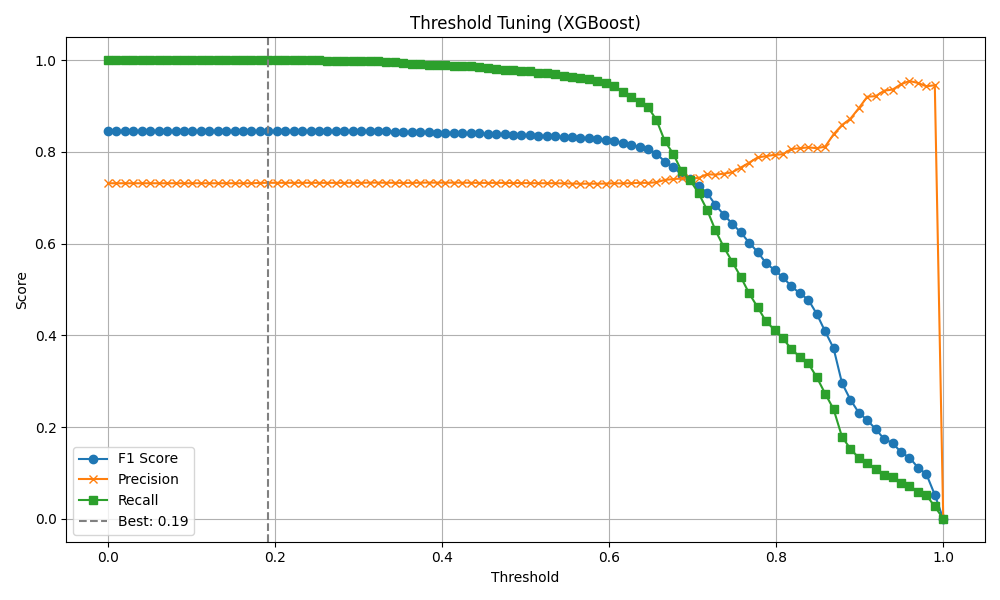
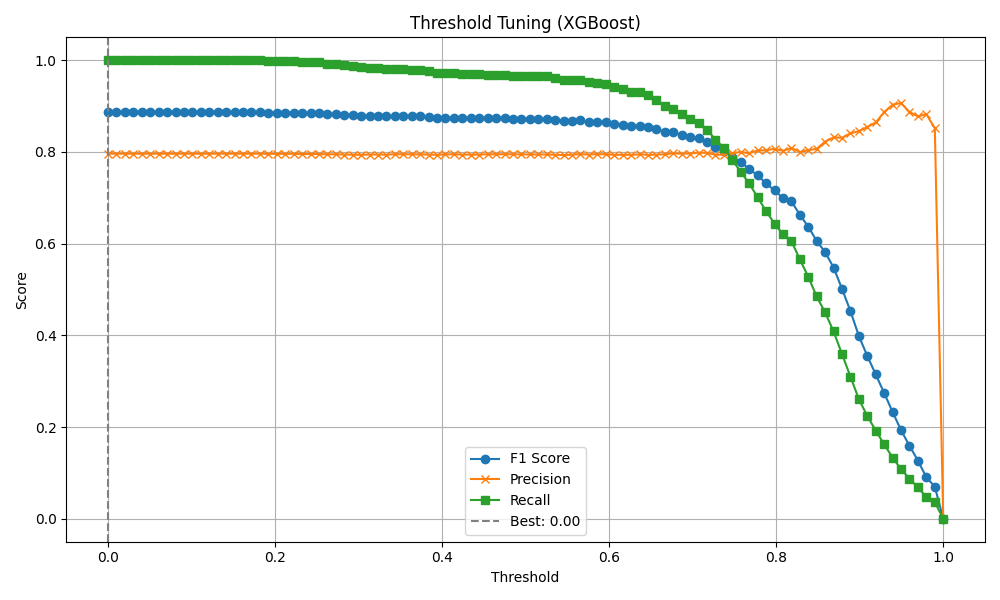
Excellent version

diff --git a/scripts/vortex_prediction_model.py b/scripts/vortex_prediction_model.py
@@ -1,19 +1,18 @@
-# Vortex Prediction Model Trainer with XGBoost 
 import argparse
 import pandas as pd
 import numpy as np
 from pathlib import Path
 from joblib import dump, load
 import matplotlib.pyplot as plt
-from xgboost import XGBClassifier
 from sklearn.ensemble import RandomForestClassifier
+from xgboost import XGBClassifier
 from sklearn.metrics import (
     precision_score, recall_score, f1_score, classification_report, confusion_matrix
 )
 
 from vortexdetect.feature_processor import FeatureProcessor
 
-# === Configuration ===
+# === Config ===
 BASE_DIR = Path(__file__).resolve().parent.parent
 DATA_FILE = BASE_DIR / "data" / "ml_ready_vortex_data.csv"
 FEATURES_FILE = BASE_DIR / "data" / "ml_ready_features.csv"
@@ -22,9 +21,10 @@ RESULTS_DIR = BASE_DIR / "results"
 LOOKAHEAD = 10
 THRESHOLD_STEP = 0.01
 
+
 def prepare_data(df, feature_processor, force_recalculate=False):
     if FEATURES_FILE.exists() and not force_recalculate:
-        print("Loading cached features...")
+        print("Loading precomputed features...")
         return pd.read_csv(FEATURES_FILE)
 
     print("Recomputing features...")
@@ -32,18 +32,20 @@ def prepare_data(df, feature_processor, force_recalculate=False):
 
     for i in range(50, len(df) - LOOKAHEAD):
         window = df.iloc[i - 50:i]
-        label = 1 if df["gt_detection_win"].iloc[i:i + LOOKAHEAD].any() else 0
+        label = 1 if any(df["gt_detection_win"].iloc[i:i + LOOKAHEAD]) else 0
         feats = feature_processor.compute_features(window)
         feats["ml_label"] = label
         features.append(feats)
 
-    df_feat = pd.DataFrame(features)
+    result_df = pd.DataFrame(features)
     FEATURES_FILE.parent.mkdir(parents=True, exist_ok=True)
-    df_feat.to_csv(FEATURES_FILE, index=False)
-    return df_feat
+    result_df.to_csv(FEATURES_FILE, index=False)
+    return result_df
+
 
 def train_model(X_train, y_train, model_type="xgboost"):
     print(f"Training {model_type.upper()} model...")
+
     if model_type == "rf":
         model = RandomForestClassifier(
             n_estimators=100,
@@ -51,97 +53,122 @@ def train_model(X_train, y_train, model_type="xgboost"):
             random_state=42
         )
     else:
+        ratio = np.sum(y_train == 0) / np.sum(y_train == 1)
         model = XGBClassifier(
             n_estimators=100,
             learning_rate=0.1,
             max_depth=5,
+            scale_pos_weight=ratio,
             use_label_encoder=False,
             eval_metric="logloss",
             random_state=42
         )
+
     model.fit(X_train, y_train)
     return model
 
-def find_best_threshold(y_true, y_probs):
-    thresholds = np.arange(0, 1.01, THRESHOLD_STEP)
-    best_f1 = 0
-    best_thresh = 0.5
-    for t in thresholds:
-        y_pred = (y_probs >= t).astype(int)
-        score = f1_score(y_true, y_pred)
-        if score > best_f1:
-            best_f1 = score
-            best_thresh = t
-    return best_thresh, best_f1
 
 def evaluate(model, X_test, y_test, save_dir, model_type):
     y_probs = model.predict_proba(X_test)[:, 1]
-    best_thresh, best_f1 = find_best_threshold(y_test, y_probs)
-    y_pred = (y_probs >= best_thresh).astype(int)
+    thresholds = np.arange(0.01, 0.51, 0.01)
+    metrics_by_threshold = []
 
-    precision = precision_score(y_test, y_pred)
-    recall = recall_score(y_test, y_pred)
-    f1 = f1_score(y_test, y_pred)
+    for t in thresholds:
+        y_pred = (y_probs >= t).astype(int)
+        metrics_by_threshold.append([
+            t,
+            precision_score(y_test, y_pred, zero_division=0),
+            recall_score(y_test, y_pred, zero_division=0),
+            f1_score(y_test, y_pred, zero_division=0)
+        ])
+
+    result_path = save_dir / f"{model_type}"
+    result_path.mkdir(parents=True, exist_ok=True)
+
+    df_metrics = pd.DataFrame(metrics_by_threshold, columns=["Threshold", "Precision", "Recall", "F1"])
+    df_metrics.to_csv(result_path / "threshold_metrics.csv", index=False)
+
+    best_row = df_metrics.sort_values("F1", ascending=False).iloc[0]
+    best_thresh = best_row["Threshold"]
+    print(f"\nBest threshold based on F1: {best_thresh:.2f}")
+
+    # Final evaluation at best threshold
+    y_pred = (y_probs >= best_thresh).astype(int)
 
     print("\nClassification Report:")
     print(classification_report(y_test, y_pred))
     print("Confusion Matrix:\n", confusion_matrix(y_test, y_pred))
 
-    model_dir = save_dir / model_type
-    model_dir.mkdir(parents=True, exist_ok=True)
-
     pd.DataFrame([{
-        "precision": precision,
-        "recall": recall,
-        "f1": f1,
+        "precision": best_row["Precision"],
+        "recall": best_row["Recall"],
+        "f1": best_row["F1"],
         "threshold": best_thresh
-    }]).to_csv(model_dir / "metrics.csv", index=False)
+    }]).to_csv(result_path / "model_metrics.csv", index=False)
 
-    with open(model_dir / "report.txt", "w") as f:
+    with open(result_path / "classification_report.txt", "w") as f:
         f.write(classification_report(y_test, y_pred))
 
+    # Plot threshold tuning
+    plt.figure(figsize=(10, 6))
+    plt.plot(df_metrics["Threshold"], df_metrics["F1"], label="F1 Score", marker='o')
+    plt.plot(df_metrics["Threshold"], df_metrics["Precision"], label="Precision", linestyle='--')
+    plt.plot(df_metrics["Threshold"], df_metrics["Recall"], label="Recall", linestyle='--')
+    plt.xlabel("Threshold")
+    plt.ylabel("Score")
+    plt.title(f"Threshold Tuning - {model_type.upper()}")
+    plt.legend()
+    plt.grid(True)
+    plt.tight_layout()
+    plt.savefig(result_path / "threshold_tuning.png")
+    plt.close()
+
     return {
-        "precision": precision,
-        "recall": recall,
-        "f1": f1,
+        "precision": best_row["Precision"],
+        "recall": best_row["Recall"],
+        "f1": best_row["F1"],
         "threshold": best_thresh
     }
 
+
 def main(args):
     model_type = args.model.lower()
-    print("Loading raw dataset...")
+    print("Loading raw time-series data...")
     df = pd.read_csv(DATA_FILE)
     processor = FeatureProcessor()
 
-    print("Generating features and labels...")
-    df_features = prepare_data(df, processor, force_recalculate=args.force_recalculate).dropna()
-    X = df_features.drop(columns=["ml_label"])
-    y = df_features["ml_label"]
+    print("Preparing features and labels...")
+    data = prepare_data(df, processor, force_recalculate=args.force_recalculate)
+    data = data.dropna()
+    X = data.drop(columns=["ml_label"])
+    y = data["ml_label"]
 
     split = int(len(X) * args.data_fraction)
     X_train, X_test = X.iloc[:split], X.iloc[split:]
     y_train, y_test = y.iloc[:split], y.iloc[split:]
 
-    model_path = MODEL_DIR / f"{model_type}_vortex_model.joblib"
-    if model_path.exists() and not args.force_retrain:
-        print("Loading cached model...")
-        model = load(model_path)
-    else:
-        model = train_model(X_train, y_train, model_type)
-        MODEL_DIR.mkdir(parents=True, exist_ok=True)
-        dump(model, model_path)
-        print(f"Model saved to {model_path}")
+    model_file = MODEL_DIR / f"{model_type}_vortex_model.joblib"
 
-    print("Evaluating model performance...")
+    if model_file.exists() and not args.force_retrain:
+        print("Loading existing model...")
+        model = load(model_file)
+    else:
+        model = train_model(X_train, y_train, model_type=model_type)
+        MODEL_DIR.mkdir(parents=True, exist_ok=True)
+        dump(model, model_file)
+        print(f"Model saved to {model_file}")
+
+    print("Evaluating model...")
     evaluate(model, X_test, y_test, RESULTS_DIR, model_type)
 
+
 if __name__ == "__main__":
-    parser = argparse.ArgumentParser(description="Train and Evaluate Vortex Model")
+    parser = argparse.ArgumentParser(description="Vortex Prediction Model Trainer")
     parser.add_argument("--model", type=str, default="xgboost", choices=["xgboost", "rf"],
-                        help="Choose model: 'xgboost' or 'rf'")
-    parser.add_argument("--force-recalculate", action="store_true", help="Recalculate features from raw data")
-    parser.add_argument("--force-retrain", action="store_true", help="Retrain even if model exists")
-    parser.add_argument("--data-fraction", type=float, default=0.8, help="Train/test split fraction")
+                        help="Choose model type: 'xgboost' or 'rf'")
+    parser.add_argument("--force-recalculate", action="store_true", help="Recompute features from raw data")
+    parser.add_argument("--force-retrain", action="store_true", help="Retrain model from scratch")
+    parser.add_argument("--data-fraction", type=float, default=0.8, help="Fraction of data to use for training")
     args = parser.parse_args()
 
     main(args)

diff --git a/app/main_gradio.py b/app/main_gradio.py
@@ -1,0 +1,86 @@
+# main
+import gradio as gr
+import pandas as pd
+import numpy as np
+import matplotlib.pyplot as plt
+from sklearn.ensemble import RandomForestClassifier
+from xgboost import XGBClassifier
+from sklearn.model_selection import train_test_split
+from sklearn.metrics import precision_score, recall_score, f1_score, roc_curve, auc
+from sklearn.preprocessing import StandardScaler
+from pathlib import Path
+
+# === Feature Extraction ===
+def extract_features(df, window_size):
+    df['pressure_diff'] = df['PRESSURE'].diff().shift(1)
+    df = df.dropna()
+    X, y = [], []
+    for i in range(window_size, len(df)):
+        window = df['pressure_diff'].iloc[i - window_size:i].values
+        label = df['gt_detection_win'].iloc[i]
+        features = [
+            np.mean(window),
+            np.std(window),
+            np.sum(window < 0),
+            np.mean(window[-10:]),
+            np.polyfit(range(len(window)), window, 1)[0]  # slope
+        ]
+        X.append(features)
+        y.append(label)
+    return np.array(X), np.array(y), df.iloc[window:].reset_index(drop=True)
+
+# === Training and Evaluation ===
+def run_model(df, model_name, window_size, threshold):
+    X, y, trimmed_df = extract_features(df, window_size)
+    X_train, X_test, y_train, y_test = train_test_split(X, y, test_size=0.2, stratify=y, random_state=42)
+    scaler = StandardScaler()
+    X_train = scaler.fit_transform(X_train)
+    X_test = scaler.transform(X_test)
+
+    model = RandomForestClassifier(n_estimators=100, random_state=42) if model_name == "Random Forest" else \
+            XGBClassifier(n_estimators=100, use_label_encoder=False, eval_metric="logloss", random_state=42)
+
+    model.fit(X_train, y_train)
+    y_prob = model.predict_proba(X_test)[:, 1]
+    y_pred = (y_prob >= threshold).astype(int)
+
+    precision = precision_score(y_test, y_pred)
+    recall = recall_score(y_test, y_pred)
+    f1 = f1_score(y_test, y_pred)
+
+    fig, ax = plt.subplots()
+    fpr, tpr, _ = roc_curve(y_test, y_prob)
+    ax.plot(fpr, tpr, label=f"AUC = {auc(fpr, tpr):.2f}")
+    ax.plot([0, 1], [0, 1], linestyle='--', color='gray')
+    ax.set_title(f"ROC Curve - {model_name}")
+    ax.set_xlabel("False Positive Rate")
+    ax.set_ylabel("True Positive Rate")
+    ax.legend()
+
+    return fig, {"Precision": precision, "Recall": recall, "F1 Score": f1, "Threshold": threshold}
+
+# === Gradio App ===
+def gradio_app(data_file, model_choice, window_size, threshold):
+    df = pd.read_csv(data_file.name if hasattr(data_file, 'name') else data_file)
+    return run_model(df, model_choice, window_size, threshold)
+
+with gr.Blocks(title="Vortex Detection Tuner") as demo:
+    gr.Markdown("## Vortex Detection Model Explorer")
+    
+    with gr.Row():
+        with gr.Column(scale=1):
+            file_input = gr.File(label="Upload CSV", file_types=[".csv"])
+            model_choice = gr.Radio(["Random Forest", "XGBoost"], value="XGBoost", label="Model Type")
+            window_slider = gr.Slider(minimum=10, maximum=100, step=5, value=50, label="Sliding Window Size")
+            threshold_slider = gr.Slider(minimum=0.01, maximum=1.0, step=0.01, value=0.5, label="Threshold")
+            run_button = gr.Button("Run Model")
+
+        with gr.Column(scale=2):
+            roc_output = gr.Plot(label="ROC Curve")
+            metrics_output = gr.JSON(label="Model Metrics")
+
+    run_button.click(fn=gradio_app, 
+                     inputs=[file_input, model_choice, window_slider, threshold_slider],
+                     outputs=[roc_output, metrics_output])
+
+demo.launch()

diff --git a/app/main.py b/app/main.py
@@ -13,25 +13,28 @@ SCRIPT_SEQUENCE = [
     ("vortex_prediction_model.py", "Running unified vortex model with configurable classifier..."),
 ]
 
+
 def run_script(script_name, message):
     script_path = SCRIPTS_DIR / script_name
     if not script_path.exists():
-        print(f" {script_name} not found at {script_path}")
+        print(f"{script_name} not found at {script_path}")
         return
 
-    print(f"\n {message}")
+    print(f"\n{message}")
     result = subprocess.run(["python", str(script_path)], capture_output=True, text=True)
 
     if result.returncode == 0:
-        print(f" {script_name} completed successfully.")
+        print(f"{script_name} completed successfully.")
     else:
-        print(f" Error in {script_name}:")
+        print(f"Error in {script_name}:")
         print(result.stderr)
+
 
 def main():
     print("==== Vortex Detection Project Runner ====")
     for script, message in SCRIPT_SEQUENCE:
         run_script(script, message)
+
 
 if __name__ == "__main__":
     main()

diff --git a/scripts/address.py b/scripts/address.py
@@ -1,16 +1,16 @@
 import pandas as pd
 import numpy as np
-import os
 import matplotlib.pyplot as plt
 import argparse
 from pathlib import Path
 from sklearn.metrics import f1_score, precision_score, recall_score
 
 # Parameters (defaults)
-DROP_THRESHOLD = 0.01
-Z_SCORE_THRESHOLD = 1.0
-SUB_WINDOW_SIZE = 10
-STEP_SIZE = 1
+DROP_THRESHOLD = 0.03
+Z_SCORE_THRESHOLD = 2.0
+SUB_WINDOW_SIZE = 20
+STEP_SIZE = 5
+
 
 def load_data(vortex_path, data_path):
     vortex_df = pd.read_csv(vortex_path)
